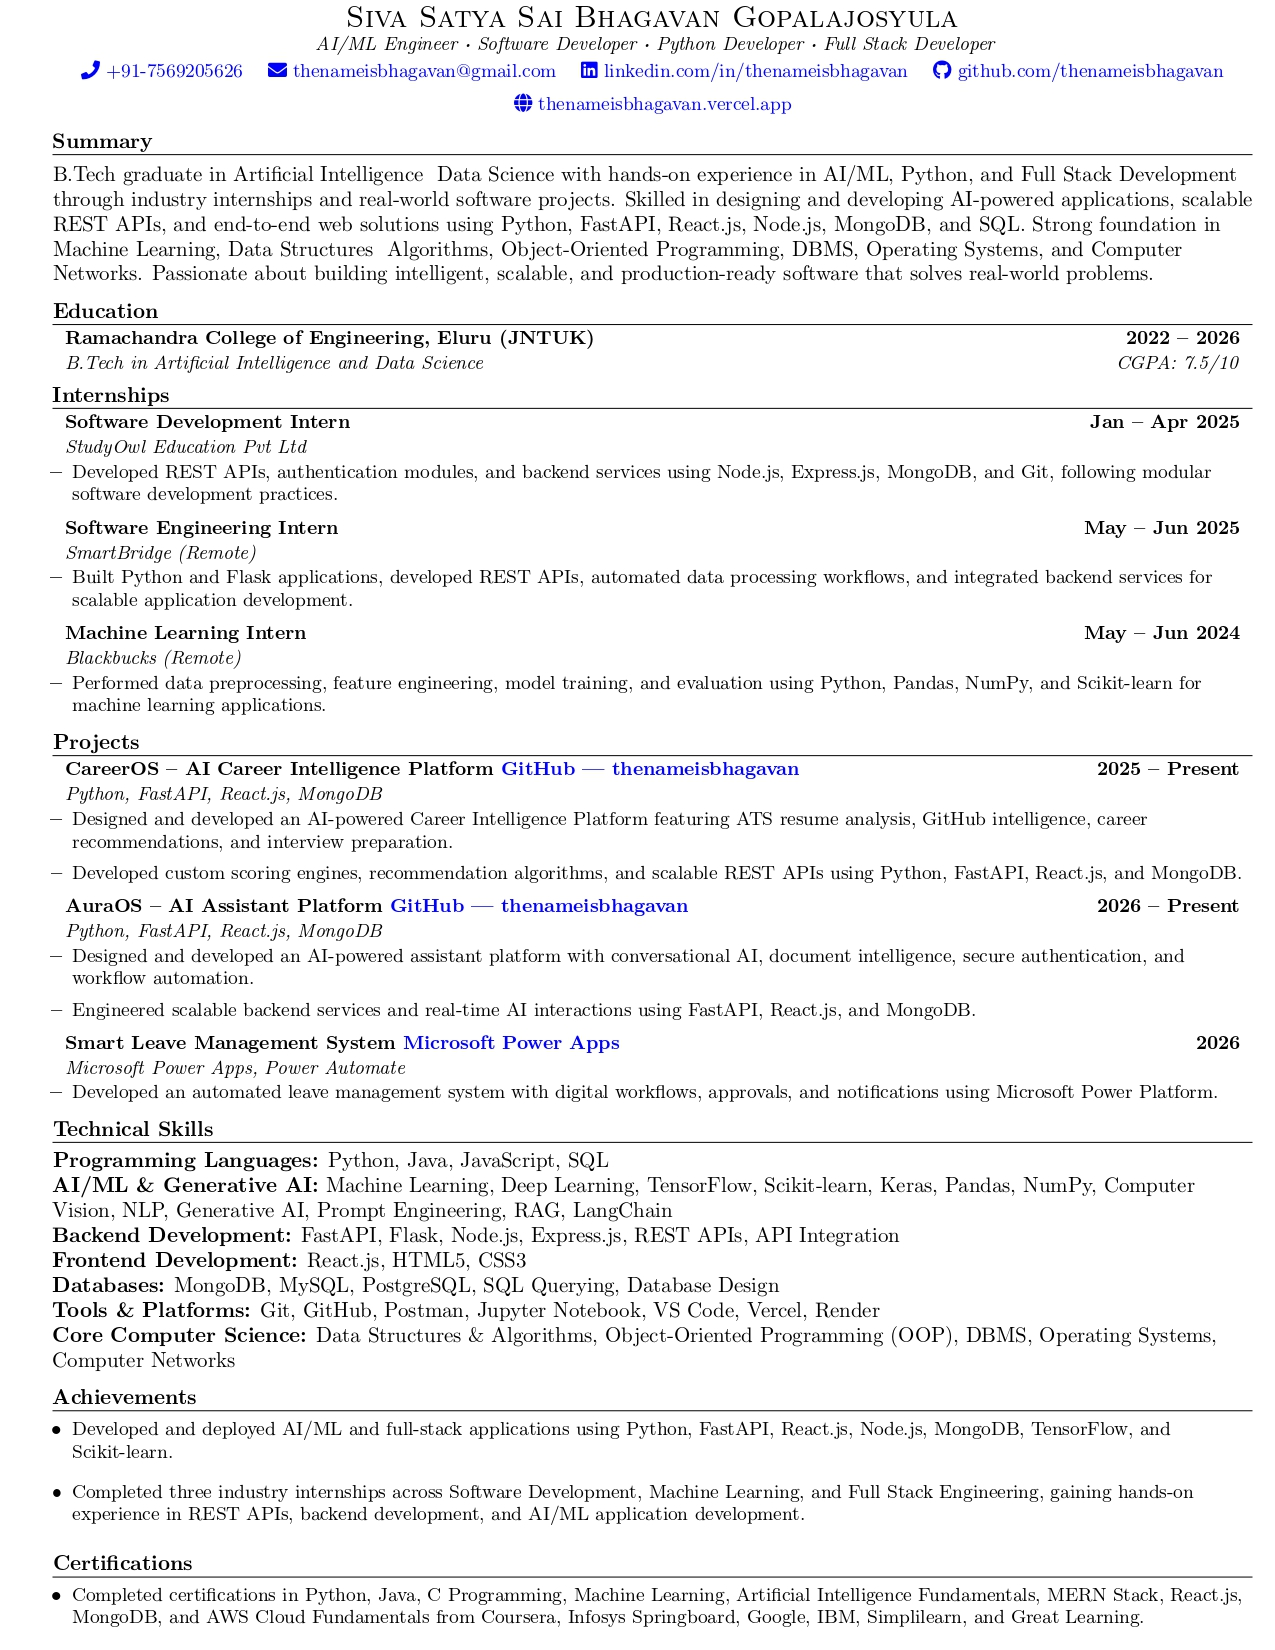
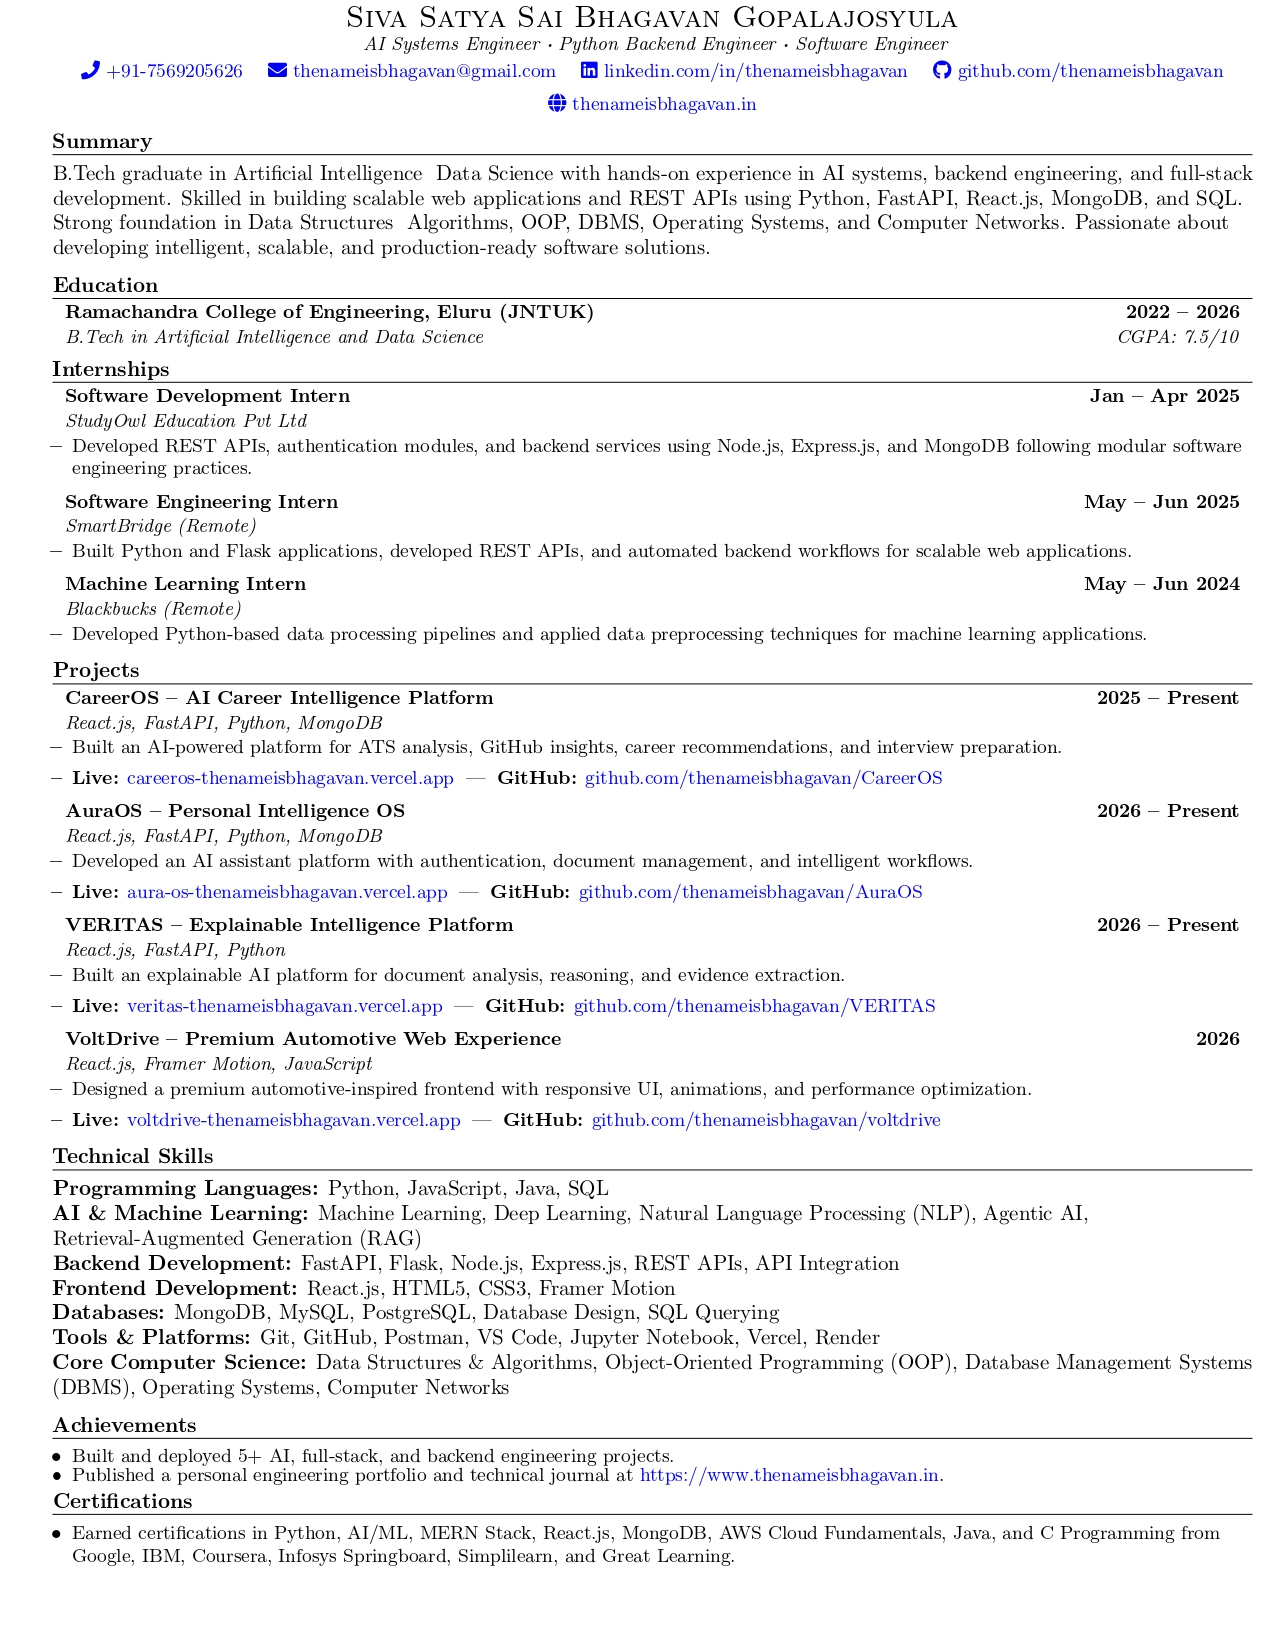
fix: resolve critical blank screen on reload caused by Vercel prerender logic and Framer Motion Suspense bug

diff --git a/src/App.jsx b/src/App.jsx
@@ -137,6 +137,12 @@ const ScrollToTop = () => {
   return null;
 };
 
+const LazyRoute = ({ children }) => (
+  <Suspense fallback={<PageLoader />}>
+    {children}
+  </Suspense>
+);
+
 function App() {
   const location = useLocation();
   const { shouldPlay, isComplete, markComplete, prefersReducedMotion } = useInitialLoad(location.pathname);
@@ -158,41 +164,39 @@ function App() {
         <AppShell>
         <ScrollToTop />
         <LayoutGroup>
-          <Suspense fallback={<PageLoader />}>
-            <AnimatePresence mode="wait">
-              <Routes location={location} key={location.pathname}>
-                {/* Core Landing Experience */}
-                <Route path="/" element={<Overview />} />
-                <Route path="/overview" element={<Navigate to="/" replace />} />
-                <Route path="/home" element={<Navigate to="/" replace />} />
+          <AnimatePresence mode="wait">
+            <Routes location={location} key={location.pathname}>
+              {/* Core Landing Experience */}
+              <Route path="/" element={<LazyRoute><Overview /></LazyRoute>} />
+              <Route path="/overview" element={<Navigate to="/" replace />} />
+              <Route path="/home" element={<Navigate to="/" replace />} />
 
-                {/* SEO-friendly Aliases */}
-                <Route path="/projects" element={<Navigate to="/work" replace />} />
-                <Route path="/skills" element={<Navigate to="/ecosystem" replace />} />
-                <Route path="/contact" element={<Navigate to="/connect" replace />} />
+              {/* SEO-friendly Aliases */}
+              <Route path="/projects" element={<Navigate to="/work" replace />} />
+              <Route path="/skills" element={<Navigate to="/ecosystem" replace />} />
+              <Route path="/contact" element={<Navigate to="/connect" replace />} />
 
-                {/* Core Experiences */}
-                <Route path="/work" element={<Work />} />
-                <Route path="/work/careeros" element={<CareerOS />} />
-                <Route path="/work/voltdrive" element={<VoltDrive />} />
-                <Route path="/work/auraos" element={<AuraOS />} />
-                <Route path="/work/veritas" element={<Veritas />} />
-                <Route path="/experience" element={<Experience />} />
-                <Route path="/vision" element={<Vision />} />
-                <Route path="/connect" element={<Connect />} />
-                <Route path="/innovation" element={<InnovationJourney />} />
-                <Route path="/credentials" element={<Credentials />} />
-                <Route path="/ecosystem" element={<TechnologyEcosystem />} />
-                <Route path="/resume" element={<Resume />} />
-                <Route path="/journal" element={<EngineeringJournal />} />
-                <Route path="/journal/about" element={<AboutJournal />} />
-                <Route path="/journal/:slug" element={<ArticlePage />} />
+              {/* Core Experiences */}
+              <Route path="/work" element={<LazyRoute><Work /></LazyRoute>} />
+              <Route path="/work/careeros" element={<LazyRoute><CareerOS /></LazyRoute>} />
+              <Route path="/work/voltdrive" element={<LazyRoute><VoltDrive /></LazyRoute>} />
+              <Route path="/work/auraos" element={<LazyRoute><AuraOS /></LazyRoute>} />
+              <Route path="/work/veritas" element={<LazyRoute><Veritas /></LazyRoute>} />
+              <Route path="/experience" element={<LazyRoute><Experience /></LazyRoute>} />
+              <Route path="/vision" element={<LazyRoute><Vision /></LazyRoute>} />
+              <Route path="/connect" element={<LazyRoute><Connect /></LazyRoute>} />
+              <Route path="/innovation" element={<LazyRoute><InnovationJourney /></LazyRoute>} />
+              <Route path="/credentials" element={<LazyRoute><Credentials /></LazyRoute>} />
+              <Route path="/ecosystem" element={<LazyRoute><TechnologyEcosystem /></LazyRoute>} />
+              <Route path="/resume" element={<LazyRoute><Resume /></LazyRoute>} />
+              <Route path="/journal" element={<LazyRoute><EngineeringJournal /></LazyRoute>} />
+              <Route path="/journal/about" element={<LazyRoute><AboutJournal /></LazyRoute>} />
+              <Route path="/journal/:slug" element={<LazyRoute><ArticlePage /></LazyRoute>} />
 
-                {/* 404 */}
-                <Route path="*" element={<NotFound />} />
-              </Routes>
-            </AnimatePresence>
-          </Suspense>
+              {/* 404 */}
+              <Route path="*" element={<NotFound />} />
+            </Routes>
+          </AnimatePresence>
         </LayoutGroup>
       </AppShell>
       </MotionConfig>

diff --git a/src/main.jsx b/src/main.jsx
@@ -18,13 +18,4 @@ const app = (
   </StrictMode>
 );
 
-if (rootElement.hasChildNodes()) {
-  // We are dealing with prerendered HTML (from Puppeteer).
-  // Because our app uses a GlobalLoader on initial mount, hydration will fail 
-  // catastrophically (mismatch between prerendered page vs client loader state).
-  // To fix the blank screen crash, we clear the prerendered DOM and use createRoot.
-  // SEO bots will still see the prerendered HTML perfectly before JS executes.
-  rootElement.innerHTML = '';
-}
-
 createRoot(rootElement).render(app);
